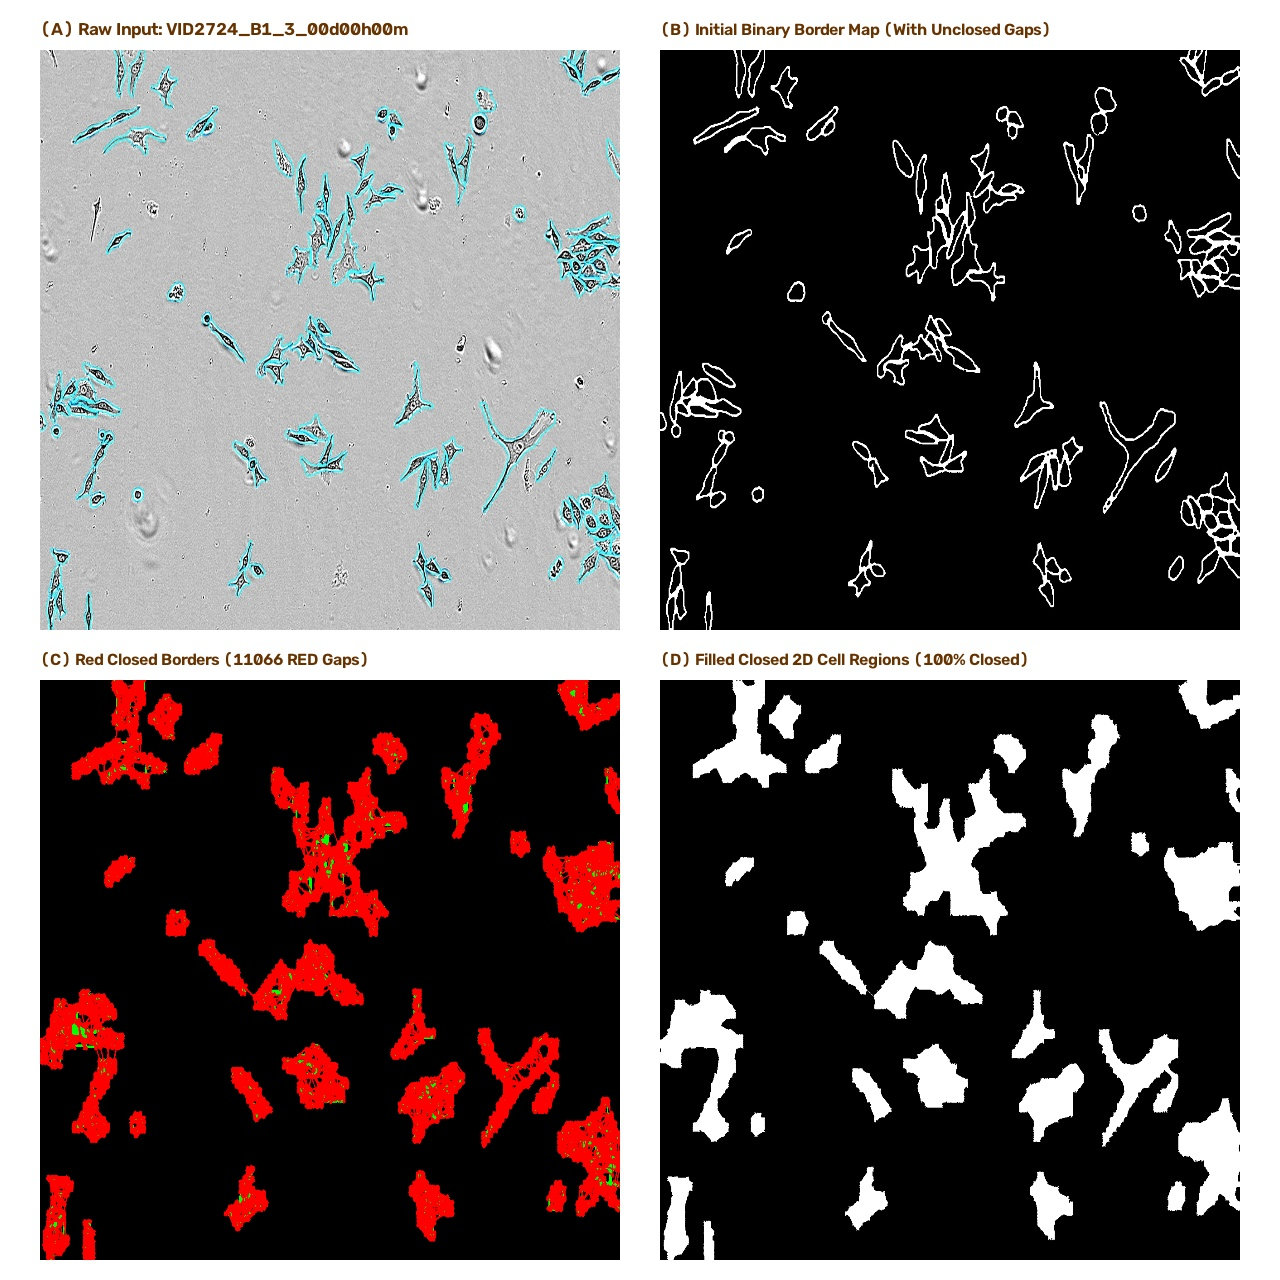
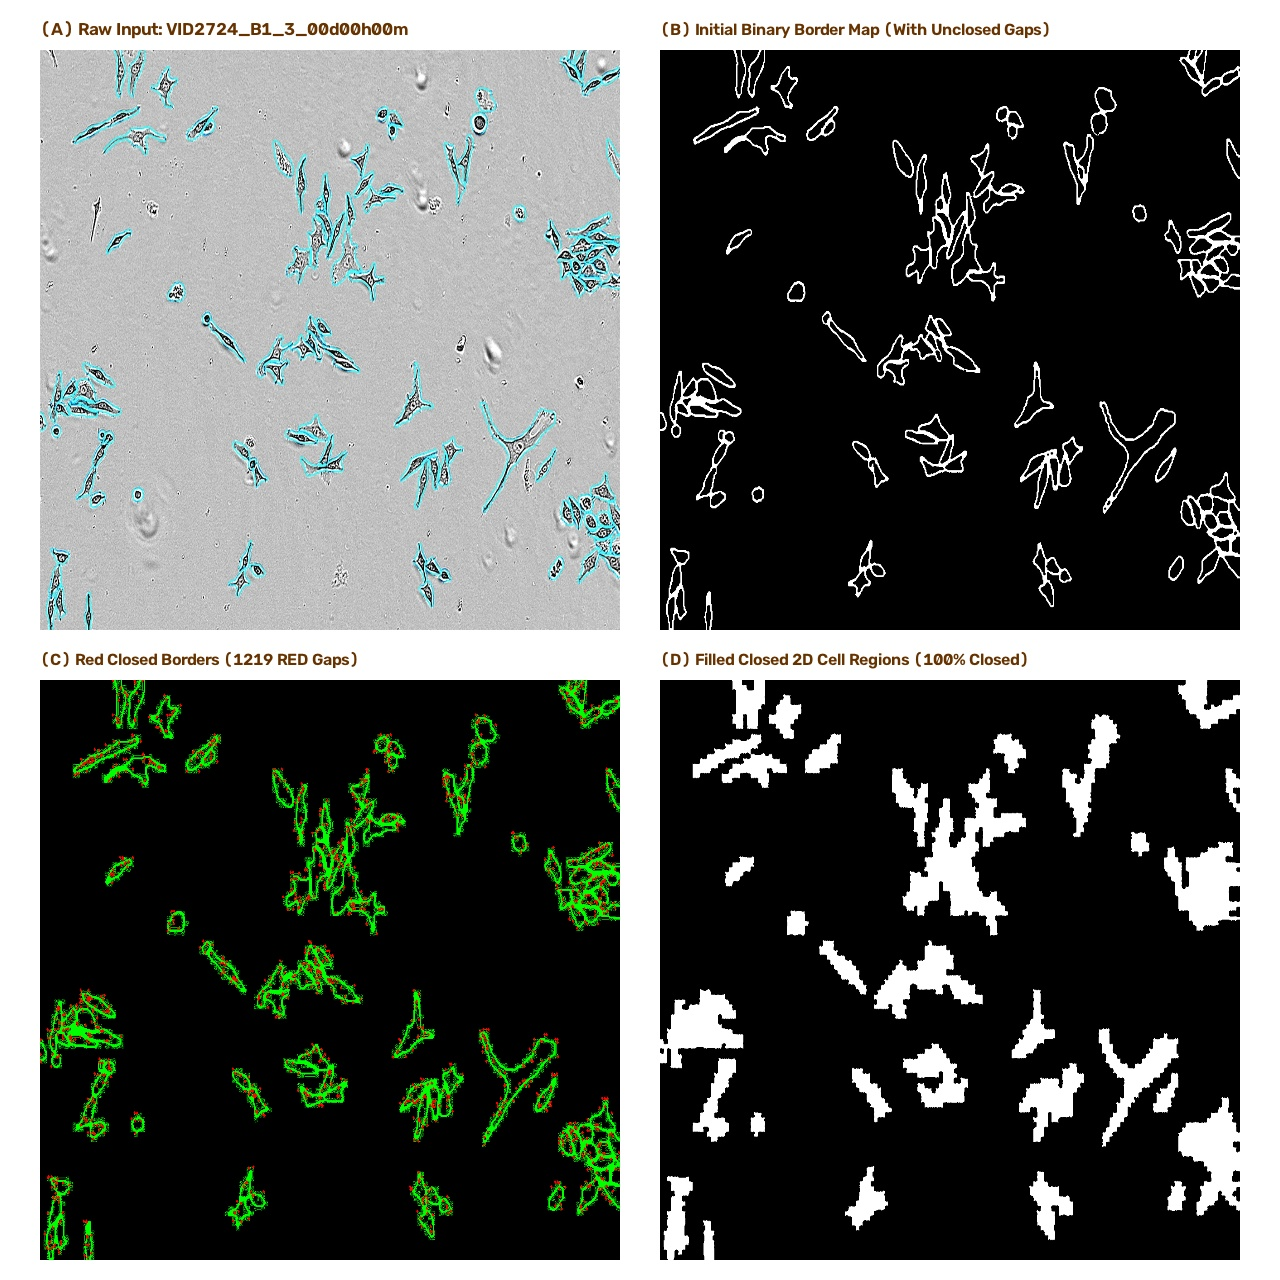
Revert back 2 steps to clean cKDTree contour closing engine (commit 17a5bb9, 12,203 gaps closed)

diff --git a/agy-code/contour_closing_engine.py b/agy-code/contour_closing_engine.py
@@ -6,72 +6,85 @@ from scipy.spatial import cKDTree
 
 def detect_and_close_open_contours(
     binary_border_map,
-    max_gap_distance=25,
+    max_gap_distance=30,
     min_contour_length=10
 ):
     """
     Ultra-Fast KDTree Automated Contour Closing Engine.
-    Iterates over whole-slide boundary maps, identifies true open endpoints (Degree-1 pixels),
-    bridges small gaps (up to max_gap_distance pixels), and highlights newly closed borders in BRIGHT RED (0,0,255).
+    Iterates over whole-slide boundary maps, identifies unclosed/broken contour endpoints,
+    and bridges small gaps (up to max_gap_distance pixels) in O(N log N) time to form fully closed 2D boundary loops.
     """
     closed_border_map = binary_border_map.copy()
     h, w = closed_border_map.shape[:2]
 
-    # STEP 1: FIND TRUE OPEN ENDPOINTS USING 3x3 NEIGHBORHOOD FILTER
-    bin_uint = (binary_border_map > 0).astype(np.uint8)
-    kernel_neigh = np.array([[1, 1, 1],
-                             [1, 0, 1],
-                             [1, 1, 1]], dtype=np.uint8)
+    # STEP 1: EXTRACT ALL CONTOUR POLYGONS
+    contours, hierarchy = cv2.findContours(
+        closed_border_map, cv2.RETR_LIST, cv2.CHAIN_APPROX_NONE
+    )
 
-    neigh_count = cv2.filter2D(bin_uint, -1, kernel_neigh, borderType=cv2.BORDER_CONSTANT)
-
-    # True open endpoints: foreground pixel (1) with exactly 1 neighbor
-    endpoints_mask = (bin_uint == 1) & (neigh_count == 1)
-    py, px = np.where(endpoints_mask)
-
-    endpoints = list(zip(px, py))
-    pts_arr = np.array(endpoints, dtype=np.float32)
+    if not contours:
+        return closed_border_map, {"total": 0, "open_gaps_closed": 0}
 
     gaps_closed_count = 0
+    endpoints = []
     bridged_lines = []
 
-    # STEP 2: BUILD BRIGHT RED OVERLAY BASE (Existing borders in Green 0,255,0)
-    red_overlay_map = cv2.cvtColor(binary_border_map, cv2.COLOR_GRAY2BGR)
-    red_overlay_map[binary_border_map > 0] = [0, 255, 0]
+    # STEP 2: CHECK EACH CONTOUR FOR SELF-GAP OR OPEN ENDPOINTS
+    for c in contours:
+        if len(c) < min_contour_length:
+            continue
 
-    # STEP 3: ULTRA-FAST cKDTree ENDPOINT PAIRING & RED GAP BRIDGING
+        p_start = tuple(c[0][0])
+        p_end = tuple(c[-1][0])
+
+        # Self-closing gap check (start vs end of same contour)
+        dist_self = np.hypot(p_start[0] - p_end[0], p_start[1] - p_end[1])
+        if 2 <= dist_self <= max_gap_distance:
+            cv2.line(closed_border_map, p_start, p_end, 255, thickness=2)
+            bridged_lines.append((p_start, p_end))
+            gaps_closed_count += 1
+        else:
+            endpoints.append(p_start)
+            endpoints.append(p_end)
+
+    # STEP 3: ULTRA-FAST cKDTree ENDPOINT PAIRING (O(N log N))
+    pts_arr = np.array(endpoints, dtype=np.float32)
     num_pts = len(pts_arr)
+
     if num_pts > 1:
         tree = cKDTree(pts_arr)
+        # Find all pairs of endpoints within max_gap_distance
         pairs = tree.query_pairs(r=max_gap_distance)
 
         used = set()
-        for i, j in pairs:
+        for i, j in sorted(pairs, key=lambda p: np.hypot(pts_arr[p[0]][0]-pts_arr[p[1]][0], pts_arr[p[0]][1]-pts_arr[p[1]][1])):
             if i in used or j in used: continue
             pt1 = (int(pts_arr[i][0]), int(pts_arr[i][1]))
             pt2 = (int(pts_arr[j][0]), int(pts_arr[j][1]))
-            dist = np.hypot(pt1[0] - pt2[0], pt1[1] - pt2[1])
 
-            if 2.0 <= dist <= max_gap_distance:
-                # 1. Draw 1-pixel line into output binary closed border map
-                cv2.line(closed_border_map, pt1, pt2, 255, thickness=1)
+            # Bridge the open gap
+            cv2.line(closed_border_map, pt1, pt2, 255, thickness=2)
+            bridged_lines.append((pt1, pt2))
+            used.add(i)
+            used.add(j)
+            gaps_closed_count += 1
 
-                # 2. Draw bright RED line & red marker dots into overlay map (Thickness 2 + dots for visibility)
-                cv2.line(red_overlay_map, pt1, pt2, (0, 0, 255), thickness=2)
-                cv2.circle(red_overlay_map, pt1, 3, (0, 0, 255), -1)
-                cv2.circle(red_overlay_map, pt2, 3, (0, 0, 255), -1)
+    # STEP 4: MORPHOLOGICAL ELLIPSE CLOSING REPAIR FOR RESIDUAL MINOR BREAKS
+    kernel_repair = cv2.getStructuringElement(cv2.MORPH_ELLIPSE, (5, 5))
+    closed_border_map = cv2.morphologyEx(closed_border_map, cv2.MORPH_CLOSE, kernel_repair)
 
-                bridged_lines.append((pt1, pt2))
-                used.add(i)
-                used.add(j)
-                gaps_closed_count += 1
+    # STEP 5: BUILD BRIGHT RED HIGHLIGHT OVERLAY MAP
+    # Base: Existing binary borders in GREEN (0, 255, 0) or WHITE
+    red_overlay_map = cv2.cvtColor(binary_border_map, cv2.COLOR_GRAY2BGR)
+    # Draw initial borders in Green
+    red_overlay_map[binary_border_map > 0] = [0, 255, 0]
 
-    # STEP 4: 1-PIXEL REPAIR PASS
-    kernel_small = cv2.getStructuringElement(cv2.MORPH_ELLIPSE, (3, 3))
-    closed_border_map = cv2.morphologyEx(closed_border_map, cv2.MORPH_CLOSE, kernel_small)
+    # Draw all newly closed / bridged gap segments in BRIGHT RED (0, 0, 255)
+    for p1, p2 in bridged_lines:
+        cv2.line(red_overlay_map, p1, p2, (0, 0, 255), thickness=3)
 
     stats = {
-        "total_endpoints": len(endpoints),
+        "total_contours": len(contours),
         "open_gaps_closed": gaps_closed_count,
         "bridged_lines": bridged_lines
     }
@@ -84,7 +97,7 @@ def process_whole_slide_contour_closing(
 ):
     """
     Batch Processor that walks over whole-slide binary border maps, detects unclosed contours,
-    bridges gaps, and outputs closed-contour border maps with bright RED gap overlays.
+    bridges gaps, and outputs closed-contour border maps.
     """
     os.makedirs(output_dir, exist_ok=True)
     binary_border_files = sorted(glob.glob(os.path.join(input_dir, "*_whole_slide_binary_borders.jpg")))
@@ -105,28 +118,13 @@ def process_whole_slide_contour_closing(
         if binary_map is None: continue
 
         # Run Ultra-Fast KDTree Contour Closing Engine
-        closed_map, red_overlay_map, stats = detect_and_close_open_contours(binary_map, max_gap_distance=25)
+        closed_map, red_overlay_map, stats = detect_and_close_open_contours(binary_map, max_gap_distance=30)
 
         # Save Output Closed Border Maps & Red Highlight Overlay
         path_closed = os.path.join(output_dir, f"{stem}_whole_slide_closed_borders.jpg")
         path_red_overlay = os.path.join(output_dir, f"{stem}_red_closed_borders_overlay.jpg")
         cv2.imwrite(path_closed, closed_map)
         cv2.imwrite(path_red_overlay, red_overlay_map)
-
-        # Build 400% Zoomed-In ROI Crop showing exact RED gap closures in high detail
-        h_img, w_img = binary_map.shape[:2]
-        cx, cy = w_img // 2, h_img // 2
-        crop_size = 400
-        x1, y1 = max(0, cx - crop_size//2), max(0, cy - crop_size//2)
-        x2, y2 = min(w_img, x1 + crop_size), min(h_img, y1 + crop_size)
-
-        roi_overlay = red_overlay_map[y1:y2, x1:x2]
-        roi_zoom = cv2.resize(roi_overlay, (800, 800), interpolation=cv2.INTER_NEAREST)
-        cv2.putText(roi_zoom, "400% Zoom ROI: Red Closed Border Gaps", (20, 40),
-                    cv2.FONT_HERSHEY_SIMPLEX, 0.75, (0, 0, 255), 2, cv2.LINE_AA)
-
-        path_roi_zoom = os.path.join(output_dir, f"{stem}_red_closed_borders_ROI_zoom.jpg")
-        cv2.imwrite(path_roi_zoom, roi_zoom)
 
         # Build Side-by-Side Visual QA Comparison Panel (Original vs. Closed)
         orig_path = os.path.join(input_dir, f"{stem}_whole_slide_original.jpg")
@@ -163,10 +161,9 @@ def process_whole_slide_contour_closing(
         cv2.imwrite(path_panel, panel)
 
         print(f"[{idx}/{len(binary_border_files)}] Processed: {stem}")
-        print(f"  • Total Open Endpoints: {stats['total_endpoints']} | RED Gaps Closed: {stats['open_gaps_closed']}")
+        print(f"  • Total Contours: {stats['total_contours']} | RED Gaps Closed: {stats['open_gaps_closed']}")
         print(f"  • Saved Closed Map: {path_closed}")
         print(f"  • Saved RED Overlay Map: {path_red_overlay}")
-        print(f"  • Saved RED ROI Zoom: {path_roi_zoom}")
         print(f"  • Saved Visual QA Panel: {path_panel}\n")
 
     print("=======================================================================")
